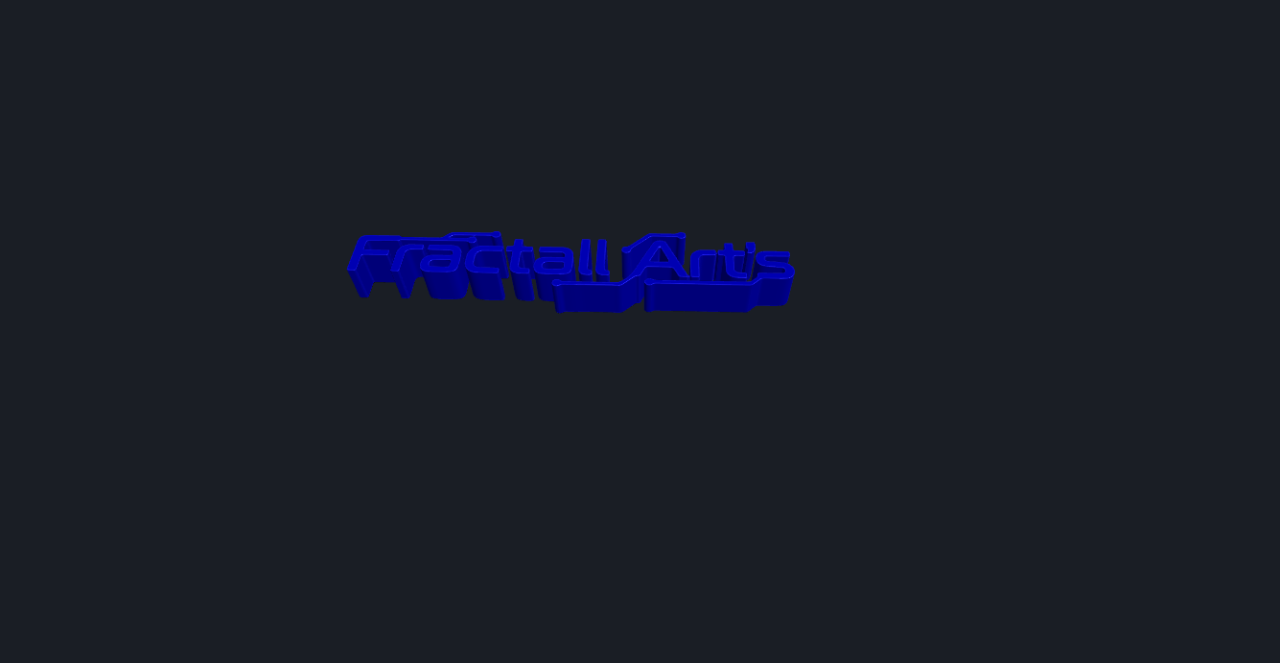
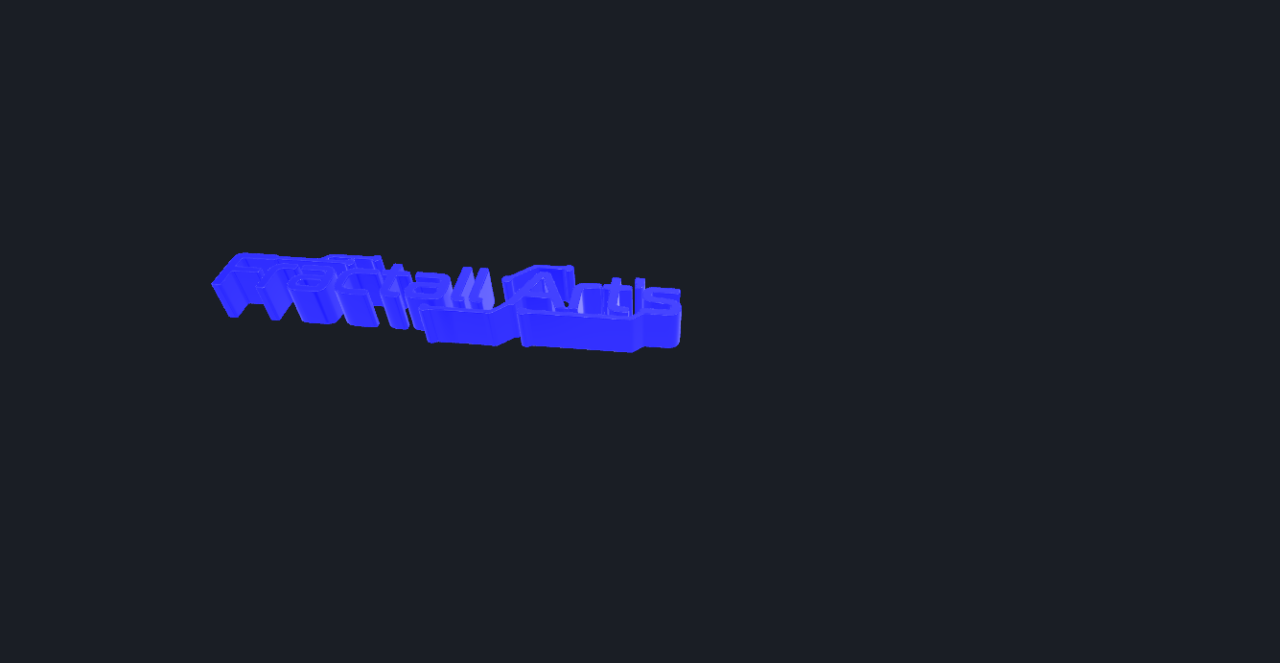
Atualiza com a exportação mais recente de teste_app24

Changed region(s): [[0.1562, 0.3318, 0.625, 0.543]]

diff --git a/ar.html b/ar.html
@@ -53,11 +53,12 @@ setTimeout(function () {
 <script type="module">
 import * as THREE from 'three';
 import { GLTFLoader } from 'three/addons/loaders/GLTFLoader.js';
+import { RoomEnvironment } from 'three/addons/environments/RoomEnvironment.js';
 import { MindARThree } from 'mindar-image-three';
 
 window.__arIniciou = true;
 var CONFIG = {"modelo":"teste4.glb","alvo":"alvo.mind","escala":0.6958942240779401,"filterMinCF":0.0003,"filterBeta":0.1,"missTolerance":5,"warmupTolerance":2};
-var LUZ = {"hemisferio":{"ceu":"#dfe6f2","chao":"#2a2d33","intensidade":1.1},"sol":{"cor":"#ffffff","intensidade":2.2,"posicao":[4,8,3]}};
+var LUZ = {"hemisferio":{"ceu":"#dfe6f2","chao":"#2a2d33","intensidade":1.1},"sol":{"cor":"#ffffff","intensidade":2.2,"posicao":[4,8,3]},"ambiente":{"desfoque":0.04}};
 var painel = document.getElementById('painel-topo');
 function aviso(html) { painel.innerHTML = html; painel.hidden = false; }
 
@@ -94,13 +95,17 @@ ancora.group.add(base);
 base.add(giro);
 giro.add(escalaGrupo);
 
-// As mesmas luzes do editor, sem ambiente de reflexo: o que se ve no editor e
-// o que aparece aqui. Ficam na base (o espaco do modelo, Y para cima), nao na
-// cena: no MindAR o "alto" da cena e o da camera, e a luz viria de lado.
+// As mesmas luzes e o mesmo ambiente de reflexo do editor: o que se ve no
+// editor e o que aparece aqui. As luzes ficam na base (o espaco do modelo, Y
+// para cima), nao na cena: no MindAR o "alto" da cena e o da camera, e a luz
+// viria de lado. O ambiente da cor aos materiais metalicos.
 base.add(new THREE.HemisphereLight(LUZ.hemisferio.ceu, LUZ.hemisferio.chao, LUZ.hemisferio.intensidade));
 var sol = new THREE.DirectionalLight(LUZ.sol.cor, LUZ.sol.intensidade);
 sol.position.fromArray(LUZ.sol.posicao);
 base.add(sol, sol.target);
+var pmrem = new THREE.PMREMGenerator(renderer);
+scene.environment = pmrem.fromScene(new RoomEnvironment(), LUZ.ambiente.desfoque).texture;
+pmrem.dispose();
 
 var escala = CONFIG.escala;
 var angulo = 0;
